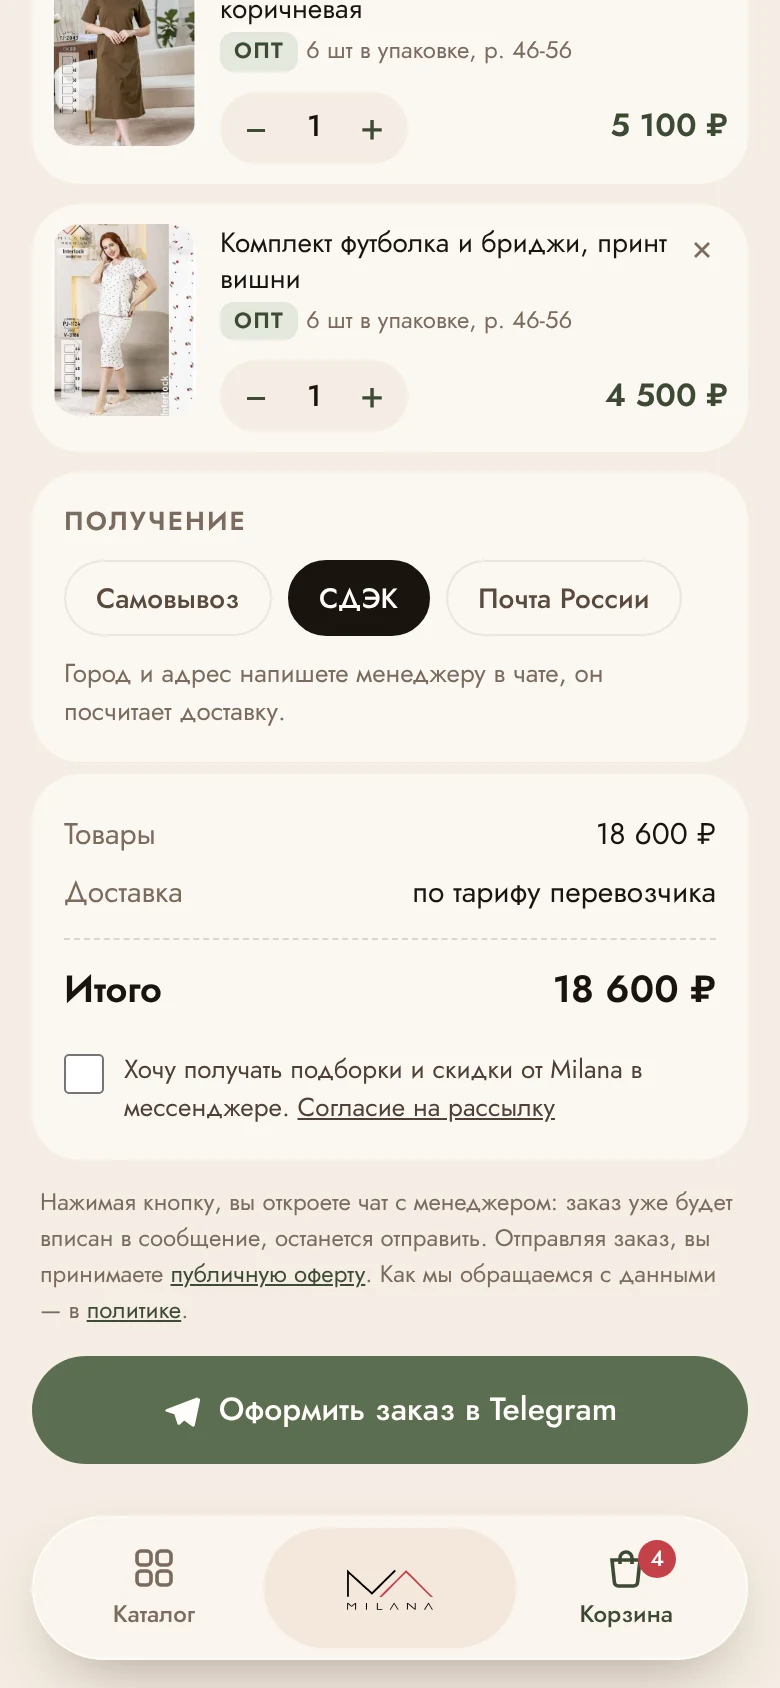
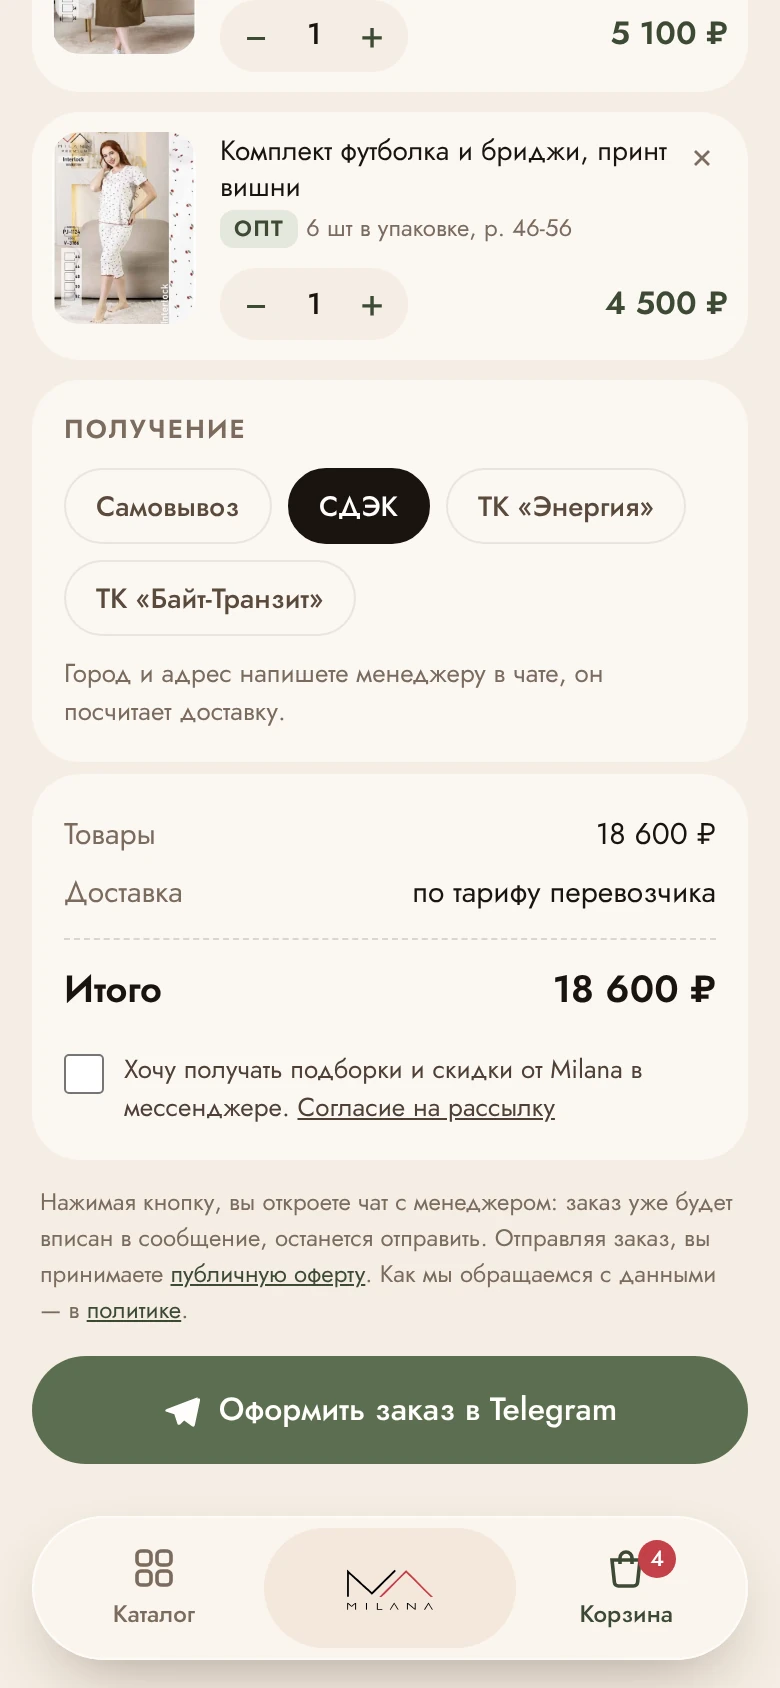
fix(delivery): no Russian Post — Самовывоз, СДЭК, ТК «Энергия», ТК «Байт-Транзит»; video captions and conversational voice text
Claude-Session: https://claude.ai/code/session_01Ry1j9MfhvWZawRkyYdF5mn

diff --git a/app/index.html b/app/index.html
@@ -281,7 +281,7 @@ a{color:inherit}
     </button>
 
     <div class="facts">
-      <div class="fact"><i>🚚</i><span>Доставка по&nbsp;России: СДЭК и&nbsp;Почта России. Стоимость считает менеджер.</span></div>
+      <div class="fact"><i>🚚</i><span>Доставка по&nbsp;России: СДЭК, ТК&nbsp;«Энергия» или «Байт-Транзит». Стоимость считает менеджер.</span></div>
       <div class="fact"><i>📍</i><span>Самовывоз: Новосибирск, ТК «Восток», ул.&nbsp;Дегтярёва, 19, ряд 19, места 61–63.</span></div>
     </div>
     <p class="foot" id="foot"></p>
@@ -350,8 +350,9 @@ const plural=(n,a,b,c)=>{n=Math.abs(n)%100;const m=n%10;return n>10&&n<20?c:m>1&
 const store={get(k,d){try{const v=localStorage.getItem('milana-app-'+k);return v?JSON.parse(v):d}catch(e){return d}},
              set(k,v){try{localStorage.setItem('milana-app-'+k,JSON.stringify(v))}catch(e){}}};
 
+const DELIVERY=['Самовывоз','СДЭК','ТК «Энергия»','ТК «Байт-Транзит»']; // способы получения (Почтой России не отправляем)
 const state={page:'home',mode:CONFIG.RETAIL_ENABLED?store.get('mode','opt'):'opt',cat:'Все',q:'',
-  cart:store.get('cart',[]).filter(i=>byId(i.id)&&(CONFIG.RETAIL_ENABLED||i.mode==='opt')),delivery:store.get('delivery','СДЭК'),ads:false,sheet:null,lastOrder:null};
+  cart:store.get('cart',[]).filter(i=>byId(i.id)&&(CONFIG.RETAIL_ENABLED||i.mode==='opt')),delivery:DELIVERY.includes(store.get('delivery'))?store.get('delivery'):'СДЭК',ads:false,sheet:null,lastOrder:null};
 
 /* ═════════════ Платформа: Telegram / MAX / браузер ═════════════ */
 const Pf={kind:'web',api:null,user:null,start:''};
@@ -471,7 +472,7 @@ function renderCart(){
       <div class="line__row"><div class="step"><button data-dec="${esc(i.key)}" aria-label="Меньше">−</button><b>${i.qty}</b><button data-inc="${esc(i.key)}" aria-label="Больше">+</button></div>
       <span class="line__sum">${rub(linePrice(i)*i.qty)}</span></div></div>
       <button class="line__x" data-del="${esc(i.key)}" aria-label="Удалить"><svg width="14" height="14" viewBox="0 0 24 24" fill="none" stroke="currentColor" stroke-width="2.4"><path d="M6 6l12 12M18 6 6 18"/></svg></button></div>`}).join('')+
-  `<div class="box"><h3>Получение</h3><div class="opts">${['Самовывоз','СДЭК','Почта России'].map(d=>`<button class="chip ${d===state.delivery?'on':''}" data-deliv="${d}">${d}</button>`).join('')}</div>
+  `<div class="box"><h3>Получение</h3><div class="opts">${DELIVERY.map(d=>`<button class="chip ${d===state.delivery?'on':''}" data-deliv="${d}">${d}</button>`).join('')}</div>
      <p class="muted" style="font-size:13px;margin-top:10px">${state.delivery==='Самовывоз'?'ТК «Восток», Новосибирск. Время согласуем в чате.':'Город и адрес напишете менеджеру в чате, он посчитает доставку.'}</p></div>
    <div class="box"><div class="row"><span class="muted">Товары</span><span>${rub(total())}</span></div>
      <div class="row"><span class="muted">Доставка</span><span>${state.delivery==='Самовывоз'?'бесплатно':'по тарифу перевозчика'}</span></div>

diff --git a/app/legal/privacy.html b/app/legal/privacy.html
@@ -46,7 +46,7 @@
 <p>4.3. Переписка в Telegram и MAX хранится у операторов этих мессенджеров по их правилам. Оператор рекомендует не присылать в чат паспортные и банковские данные — для заказа они не нужны.</p>
 
 <h2>5. Кому передаются данные</h2>
-<p>5.1. Чтобы исполнить договор, Оператор передаёт фамилию, имя, телефон и адрес службе доставки (СДЭК, АО «Почта России» или другой, которую выбрал покупатель). Данные для кассового чека получает оператор фискальных данных.</p>
+<p>5.1. Чтобы исполнить договор, Оператор передаёт фамилию, имя, телефон и адрес службе доставки (СДЭК, ТК «Энергия», ТК «Байт-Транзит» или другой, которую выбрал покупатель). Данные для кассового чека получает оператор фискальных данных.</p>
 <p>5.2. Оператор может поручить обработку другому лицу по договору с соблюдением ст. 6 Закона. В этом случае перед покупателем отвечает Оператор.</p>
 <p>5.3. Оператор не продаёт и не публикует персональные данные. Он передаёт их государственным органам, только если этого требует закон.</p>
 

diff --git a/app/legal/oferta.html b/app/legal/oferta.html
@@ -48,7 +48,7 @@
 
 <h2>6. Доставка и получение</h2>
 <p>6.1. Самовывоз: г. Новосибирск, ТК «Восток», ул. Дегтярёва, 19, ряд 19, места 61–63. Время согласуется с Менеджером.</p>
-<p>6.2. Доставка по России: СДЭК, Почта России или другая служба по согласованию. Продавец передаёт заказ перевозчику в течение 24 часов после оплаты, в выходные и праздники — в ближайший рабочий день. Срок в пути устанавливает перевозчик.</p>
+<p>6.2. Доставка по России: СДЭК, транспортные компании «Энергия» и «Байт-Транзит» или другая служба по согласованию. Продавец передаёт заказ перевозчику в течение 24 часов после оплаты, в выходные и праздники — в ближайший рабочий день. Срок в пути устанавливает перевозчик.</p>
 <p>6.3. При получении проверьте количество, ассортимент и внешний вид товара. Расхождения фиксируйте на фото или видео. Для оптовых заказов рекомендуется снимать видео вскрытия упаковки.</p>
 
 <h2>7. Возврат и обмен — розница</h2>

diff --git a/app/brand-tools/appvideo/scene.html b/app/brand-tools/appvideo/scene.html
@@ -81,8 +81,8 @@ const eo=x=>1-Math.pow(1-x,3), eio=x=>x<.5?4*x*x*x:1-Math.pow(-2*x+2,3)/2;
 const back=x=>{const c1=1.4,c3=c1+1;return 1+c3*Math.pow(x-1,3)+c1*Math.pow(x-1,2)};
 const $=s=>document.getElementById(s);
 const show=(id,o,ty=0)=>{const e=$(id);e.style.opacity=o;e.style.visibility=o<=.001?'hidden':'visible';e.style.transform=`translateY(${ty}px)`};
-const CAPS=[null,['Открывается прямо в Telegram','Без сайта и регистрации'],['Все модели — с ценой за упаковку','Пижамы, сорочки, туники, халаты'],
- ['Размерный ряд в каждой упаковке','Выберите количество — и в корзину'],['Заказ из разных моделей','Самовывоз, СДЭК или Почта России'],
+const CAPS=[null,['Открывается прямо в Telegram','Весь ассортимент в одном месте'],['Все модели — с ценой за упаковку','Пижамы, сорочки, туники, халаты'],
+ ['Размерный ряд в каждой упаковке','Выберите количество — и в корзину'],['Заказ из разных моделей','Самовывоз, СДЭК, «Энергия», «Байт-Транзит»'],
  ['Заказ уходит менеджеру','Одним сообщением — останется отправить'],null];
 let lastCap=-1;
 function caption(t){let i=-1;for(let k=1;k<=5;k++)if(t>=E[k]-.1&&t<E[k+1]-.1)i=k;

diff --git a/index.html b/index.html
@@ -1029,7 +1029,6 @@ footer{
             <select class="form-select" id="f-delivery">
               <option value="">Выберите способ</option>
               <option>СДЭК</option>
-              <option>Почта России</option>
               <option>ТК Энергия</option>
               <option>ТК Байт-Транзит</option>
               <option>Самовывоз Новосибирск</option>

diff --git a/CLAUDE.md b/CLAUDE.md
@@ -189,7 +189,7 @@ const products = [
 - Телефон* (tel, маска +7)
 - Email* (email)
 - Компания / ИП (text, необязательно)
-- Способ доставки* (select): СДЭК | Почта России | Самовывоз Новосибирск | Другое
+- Способ доставки* (select): СДЭК | ТК Энергия | ТК Байт-Транзит | Самовывоз Новосибирск | Другое (Почтой России не отправляем)
 - Город* (text)
 - Регион (select)
 - Адрес доставки (textarea)
